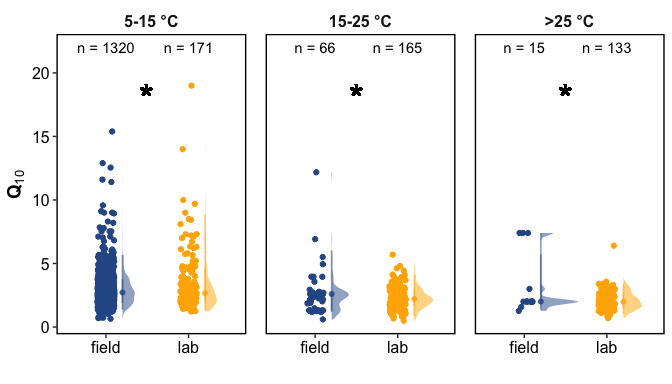
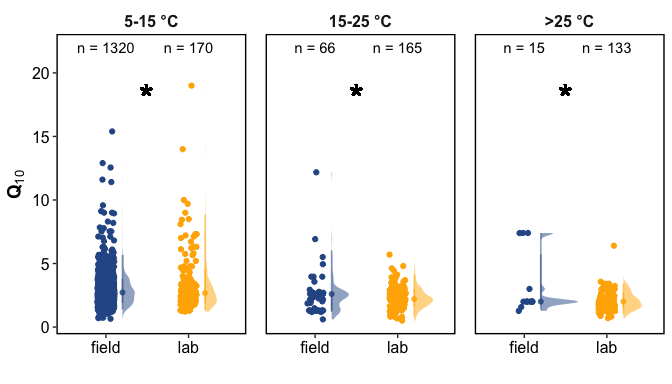
measurement type

diff --git a/reports/2-data_analysis.md b/reports/2-data_analysis.md
@@ -28,7 +28,7 @@ Datapoints:
 | CO2     | equatorial   |    64 |  90 |
 | CO2     | arid         |   165 |  45 |
 | CO2     | temperate    |  1875 | 458 |
-| CO2     | snow         |  2568 | 161 |
+| CO2     | snow         |  2568 | 160 |
 | CO2     | polar        |   120 | 113 |
 | CO2     | NA           |    67 | 141 |
 | CH4     | arid         |     2 |  12 |
@@ -42,7 +42,7 @@ total datapoints:
 
 | Species | field |  lab |
 |:--------|------:|-----:|
-| CO2     |  4859 | 1008 |
+| CO2     |  4859 | 1007 |
 | CH4     |    61 |  132 |
 
 Studies:
@@ -52,8 +52,8 @@ Studies:
 | CO2     | equatorial   |    19 |   9 |
 | CO2     | arid         |    28 |   9 |
 | CO2     | temperate    |   272 |  60 |
-| CO2     | snow         |   235 |  29 |
-| CO2     | polar        |    29 |  19 |
+| CO2     | snow         |   235 |  28 |
+| CO2     | polar        |    29 |  18 |
 | CO2     | NA           |    11 |  24 |
 | CH4     | arid         |     2 |   1 |
 | CH4     | temperate    |     9 |   6 |
@@ -66,7 +66,7 @@ total studies:
 
 | Species | field | lab |
 |:--------|------:|----:|
-| CO2     |   578 | 128 |
+| CO2     |   578 | 125 |
 | CH4     |    26 |  21 |
 
 ### 4. Incubation Temperature Ranges
@@ -100,7 +100,7 @@ total studies:
 | CO2     | perc_01 |   1.13 |   1.00 |
 | CO2     | perc_25 |   2.03 |   1.90 |
 | CO2     | perc_75 |   3.40 |   3.00 |
-| CO2     | perc_99 |  10.54 |  49.93 |
+| CO2     | perc_99 |  10.54 |  49.94 |
 | CO2     | min     |   0.56 |   0.50 |
 | CO2     | max     | 131.63 | 344.00 |
 | CH4     | mean    |   6.14 |   5.51 |
@@ -119,7 +119,7 @@ total studies:
 | CO2     | equatorial   | mean   |  2.78 | 2.39 |
 | CO2     | arid         | mean   |  1.76 | 2.48 |
 | CO2     | temperate    | mean   |  2.82 | 3.52 |
-| CO2     | snow         | mean   |  3.30 | 7.91 |
+| CO2     | snow         | mean   |  3.30 | 7.95 |
 | CO2     | polar        | mean   |  3.37 | 5.69 |
 | CO2     | NA           | mean   |  2.50 | 2.56 |
 | CO2     | equatorial   | median |  2.01 | 2.32 |
@@ -135,7 +135,7 @@ total studies:
 |:--------|:-----------|:-------|------:|-------:|
 | CO2     | \< 0       | mean   | 45.95 | 113.45 |
 | CO2     | 0_5        | mean   | 27.79 |  59.42 |
-| CO2     | 5_15       | mean   |  2.93 |   3.33 |
+| CO2     | 5_15       | mean   |  2.93 |   3.34 |
 | CO2     | 15_25      | mean   |  2.54 |   2.29 |
 | CO2     | \> 25      | mean   |  3.07 |   2.08 |
 | CO2     | NA         | mean   |  2.93 |   2.65 |
@@ -156,7 +156,7 @@ temperature range. (0-10 C, 0-15 C, 0-20 C, 10-20 C, 5-15 C, etc.)
     #> # A tibble: 1 × 6
     #>   term          df sumsq meansq statistic   p_value
     #>   <chr>      <dbl> <dbl>  <dbl>     <dbl>     <dbl>
-    #> 1 Incubation     1 1077.  1077.      18.9 0.0000141
+    #> 1 Incubation     1 1081.  1081.      19.0 0.0000136
 
 ![](2-data_analysis_files/figure-gfm/co2_all_data-1.png)<!-- -->
 
@@ -171,7 +171,7 @@ ranges of 10 C.
     #> # A tibble: 1 × 6
     #>   term          df sumsq meansq statistic       p_value
     #>   <chr>      <dbl> <dbl>  <dbl>     <dbl>         <dbl>
-    #> 1 Incubation     1 2521.  2521.      33.0 0.00000000981
+    #> 1 Incubation     1 2531.  2531.      33.1 0.00000000921
 
 ### 4. Grouping by biome
 
@@ -191,17 +191,39 @@ ranges of 10 C.
 | Desert         | lab        | 22.417647 |   17 |
 | Forest         | field      |  3.194554 | 3619 |
 | Forest         | lab        |  2.580937 |  491 |
-| Grassland      | field      |  2.555854 |  632 |
+| Grassland      | field      |  2.557804 |  633 |
 | Grassland      | lab        |  2.523393 |  112 |
-| Peatland       | lab        |  1.550000 |    3 |
 | Savanna        | field      |  2.022941 |   17 |
-| Shrubland      | field      |  2.941828 |  186 |
+| Shrubland      | field      |  2.937243 |  185 |
 | Tundra         | field      | 12.250000 |    2 |
-| Tundra         | lab        | 18.529818 |   55 |
+| Tundra         | lab        | 18.837778 |   54 |
 | Wetland        | field      |  2.655882 |  102 |
-| Wetland        | lab        |  7.639444 |   72 |
+| Wetland        | lab        |  7.395867 |   75 |
 | NA             | field      |  2.250000 |    2 |
 | NA             | lab        |  2.821486 |  175 |
+
+#### 5. Grouping by Ecosystem type
+
+![](2-data_analysis_files/figure-gfm/unnamed-chunk-11-1.png)<!-- -->
+
+| Meas_method              | Incubation |     mean |    n |
+|:-------------------------|:-----------|---------:|-----:|
+| Alkali absorption        | field      | 2.506006 |  348 |
+| Alkali absorption        | lab        | 3.827094 |  234 |
+| BaPS                     | lab        | 5.350000 |    4 |
+| Gas chromatography       | field      | 2.519280 |  361 |
+| Gas chromatography       | lab        | 2.841552 |  232 |
+| Gradient                 | field      | 2.404545 |   33 |
+| IRGA                     | field      | 3.149966 | 4101 |
+| IRGA                     | lab        | 5.730942 |  393 |
+| IRMS                     | lab        | 2.000000 |    1 |
+| oxygen microcompensation | lab        | 1.915000 |    2 |
+| respirometer             | lab        | 3.000000 |    1 |
+| TDLAS                    | lab        | 2.386250 |    8 |
+| unknown                  | lab        | 2.759318 |   88 |
+| Unknown                  | field      | 2.508000 |   15 |
+| NA                       | field      | 2.040000 |    1 |
+| NA                       | lab        | 2.686591 |   44 |
 
 ### 5. Subsetting by temperature range
 
@@ -219,7 +241,7 @@ would also avoid issues pertaining to frozen soils (if we were tp choose
     #> # Groups:   Temp_range [3]
     #>   Temp_range term          df sumsq meansq statistic  p_value
     #>   <fct>      <chr>      <dbl> <dbl>  <dbl>     <dbl>    <dbl>
-    #> 1 5_15       Incubation     1 24.4   24.4      11.8  0.000604
+    #> 1 5_15       Incubation     1 25.3   25.3      12.2  0.000479
     #> 2 15_25      Incubation     1  3.13   3.13      2.65 0.105   
     #> 3 > 25       Incubation     1 13.3   13.3      13.4  0.000343
 
@@ -237,9 +259,9 @@ did bootstrapping by randomly sampling 1000 times, 10 samples each.
     #> # Groups:   Temp_range [3]
     #>   Temp_range term          df sumsq meansq statistic p_value
     #>   <fct>      <chr>      <dbl> <dbl>  <dbl>     <dbl>   <dbl>
-    #> 1 5_15       Incubation     1  750.   750.     2168.       0
-    #> 2 15_25      Incubation     1  322.   322.     2075.       0
-    #> 3 > 25       Incubation     1 4868.  4868.    18256.       0
+    #> 1 5_15       Incubation     1  797.   797.     2309.       0
+    #> 2 15_25      Incubation     1  321.   321.     2099.       0
+    #> 3 > 25       Incubation     1 4864.  4864.    17950.       0
 
 #### 5.2 Combining non-bootstrap and bootstrap plots
 
@@ -260,7 +282,7 @@ snow biomes only.
     #>   <chr>               <dbl> <int>
     #> 1 Field: Ra-dominated  3.13   167
     #> 2 Field: Rh-dominated  2.70   581
-    #> 3 Lab: Rh only         2.68  1110
+    #> 3 Lab: Rh only         2.68  1109
 
 ![](2-data_analysis_files/figure-gfm/co2_rh-1.png)<!-- -->
 
@@ -269,8 +291,8 @@ snow biomes only.
 <!-- -->
 
     #>               Df Sum Sq Mean Sq F value Pr(>F)
-    #> Rh_group       1    0.1  0.1416    0.09  0.764
-    #> Residuals   1689 2650.6  1.5693
+    #> Rh_group       1    0.1  0.1314   0.084  0.772
+    #> Residuals   1688 2650.0  1.5699
 
 -   How did field Rh vs. field Ra compare?
 
@@ -302,7 +324,7 @@ snow biomes only.
 Session Info
 </summary>
 
-Date run: 2022-08-20
+Date run: 2022-08-24
 
     #> R version 4.2.1 (2022-06-23)
     #> Platform: x86_64-apple-darwin17.0 (64-bit)
@@ -319,46 +341,28 @@ Date run: 2022-08-20
     #> [1] stats     graphics  grDevices utils     datasets  methods   base     
     #> 
     #> other attached packages:
-    #>  [1] patchwork_1.1.1         googlesheets4_1.0.0     data.table_1.14.2      
-    #>  [4] sidb_1.0.0              sf_1.0-7                rnaturalearthdata_0.1.0
-    #>  [7] rnaturalearth_0.1.0     nlme_3.1-157            drake_7.13.3           
-    #> [10] forcats_0.5.1           stringr_1.4.0           dplyr_1.0.9            
-    #> [13] purrr_0.3.4             readr_2.1.2             tidyr_1.2.0            
+    #>  [1] patchwork_1.1.1         googlesheets4_1.0.0     data.table_1.14.2       sidb_1.0.0              sf_1.0-7               
+    #>  [6] rnaturalearthdata_0.1.0 rnaturalearth_0.1.0     nlme_3.1-157            drake_7.13.3            forcats_0.5.1          
+    #> [11] stringr_1.4.0           dplyr_1.0.9             purrr_0.3.4             readr_2.1.2             tidyr_1.2.0            
     #> [16] tibble_3.1.8            ggplot2_3.3.6           tidyverse_1.3.2        
     #> 
     #> loaded via a namespace (and not attached):
-    #>  [1] googledrive_2.0.0    minqa_1.2.4          colorspace_2.0-3    
-    #>  [4] ellipsis_0.3.2       class_7.3-20         fs_1.5.2            
-    #>  [7] rstudioapi_0.13      proxy_0.4-27         farver_2.1.1        
-    #> [10] soilpalettes_0.1.0   bit64_4.0.5          fansi_1.0.3         
-    #> [13] lubridate_1.8.0      xml2_1.3.3           splines_4.2.1       
-    #> [16] rootSolve_1.8.2.3    knitr_1.39           jsonlite_1.8.0      
-    #> [19] broom_1.0.0          dbplyr_2.2.1         ggdist_3.2.0        
-    #> [22] compiler_4.2.1       httr_1.4.3           backports_1.4.1     
-    #> [25] Matrix_1.4-1         assertthat_0.2.1     fastmap_1.1.0       
-    #> [28] gargle_1.2.0         cli_3.3.0            s2_1.1.0            
-    #> [31] htmltools_0.5.3      prettyunits_1.1.1    tools_4.2.1         
-    #> [34] igraph_1.3.4         coda_0.19-4          gtable_0.3.0        
-    #> [37] glue_1.6.2           wk_0.6.0             rappdirs_0.3.3      
-    #> [40] Rcpp_1.0.9           cellranger_1.1.0     vctrs_0.4.1         
-    #> [43] xfun_0.31            rvest_1.0.2          lifecycle_1.0.1     
-    #> [46] MASS_7.3-57          scales_1.2.0         vroom_1.5.7         
-    #> [49] hms_1.1.1            parallel_4.2.1       yaml_2.3.5          
-    #> [52] curl_4.3.2           stringi_1.7.8        highr_0.9           
-    #> [55] e1071_1.7-11         PNWColors_0.1.0      measurements_1.4.0  
-    #> [58] filelock_1.0.2       FME_1.3.6.2          storr_1.2.5         
-    #> [61] rlang_1.0.4          pkgconfig_2.0.3      distributional_0.3.0
-    #> [64] evaluate_0.15        lattice_0.20-45      labeling_0.4.2      
-    #> [67] bit_4.0.4            tidyselect_1.1.2     deSolve_1.33        
-    #> [70] magrittr_2.0.3       R6_2.5.1             generics_0.1.3      
-    #> [73] base64url_1.4        txtq_0.2.4           DBI_1.1.3           
-    #> [76] mgcv_1.8-40          pillar_1.8.0         haven_2.5.0         
-    #> [79] withr_2.5.0          units_0.8-0          sp_1.5-0            
-    #> [82] modelr_0.1.8         crayon_1.5.1         KernSmooth_2.23-20  
-    #> [85] utf8_1.2.2           tzdb_0.3.0           rmarkdown_2.14      
-    #> [88] progress_1.2.2       grid_4.2.1           readxl_1.4.0        
-    #> [91] minpack.lm_1.2-2     reprex_2.0.1         digest_0.6.29       
-    #> [94] classInt_0.4-7       openssl_2.0.2        munsell_0.5.0       
+    #>  [1] googledrive_2.0.0    minqa_1.2.4          colorspace_2.0-3     ellipsis_0.3.2       class_7.3-20         fs_1.5.2            
+    #>  [7] rstudioapi_0.13      proxy_0.4-27         farver_2.1.1         soilpalettes_0.1.0   bit64_4.0.5          fansi_1.0.3         
+    #> [13] lubridate_1.8.0      xml2_1.3.3           splines_4.2.1        rootSolve_1.8.2.3    knitr_1.39           jsonlite_1.8.0      
+    #> [19] broom_1.0.0          dbplyr_2.2.1         ggdist_3.2.0         compiler_4.2.1       httr_1.4.3           backports_1.4.1     
+    #> [25] Matrix_1.4-1         assertthat_0.2.1     fastmap_1.1.0        gargle_1.2.0         cli_3.3.0            s2_1.1.0            
+    #> [31] htmltools_0.5.3      prettyunits_1.1.1    tools_4.2.1          igraph_1.3.4         coda_0.19-4          gtable_0.3.0        
+    #> [37] glue_1.6.2           wk_0.6.0             rappdirs_0.3.3       Rcpp_1.0.9           cellranger_1.1.0     vctrs_0.4.1         
+    #> [43] xfun_0.31            rvest_1.0.2          lifecycle_1.0.1      MASS_7.3-57          scales_1.2.0         vroom_1.5.7         
+    #> [49] hms_1.1.1            parallel_4.2.1       yaml_2.3.5           curl_4.3.2           stringi_1.7.8        highr_0.9           
+    #> [55] e1071_1.7-11         PNWColors_0.1.0      measurements_1.4.0   filelock_1.0.2       FME_1.3.6.2          storr_1.2.5         
+    #> [61] rlang_1.0.4          pkgconfig_2.0.3      distributional_0.3.0 evaluate_0.15        lattice_0.20-45      labeling_0.4.2      
+    #> [67] bit_4.0.4            tidyselect_1.1.2     deSolve_1.33         magrittr_2.0.3       R6_2.5.1             generics_0.1.3      
+    #> [73] base64url_1.4        txtq_0.2.4           DBI_1.1.3            pillar_1.8.0         haven_2.5.0          withr_2.5.0         
+    #> [79] mgcv_1.8-40          units_0.8-0          sp_1.5-0             modelr_0.1.8         crayon_1.5.1         KernSmooth_2.23-20  
+    #> [85] utf8_1.2.2           tzdb_0.3.0           rmarkdown_2.14       progress_1.2.2       grid_4.2.1           readxl_1.4.0        
+    #> [91] minpack.lm_1.2-2     reprex_2.0.1         digest_0.6.29        classInt_0.4-7       openssl_2.0.2        munsell_0.5.0       
     #> [97] viridisLite_0.4.0    askpass_1.1
 
 </details>
